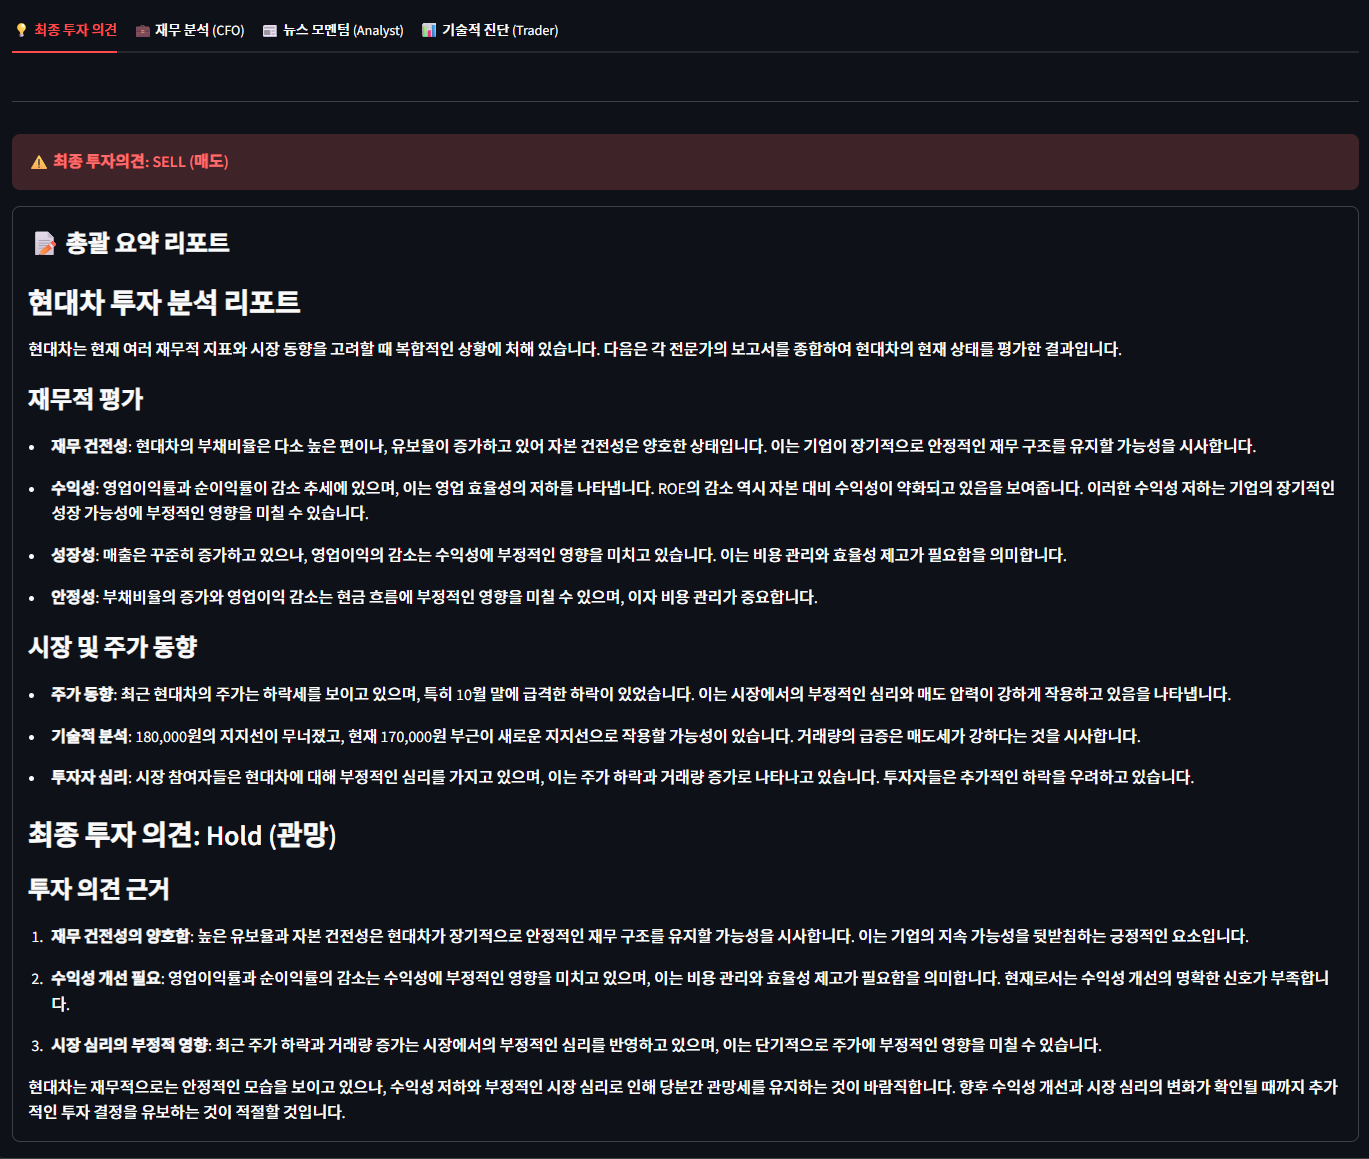
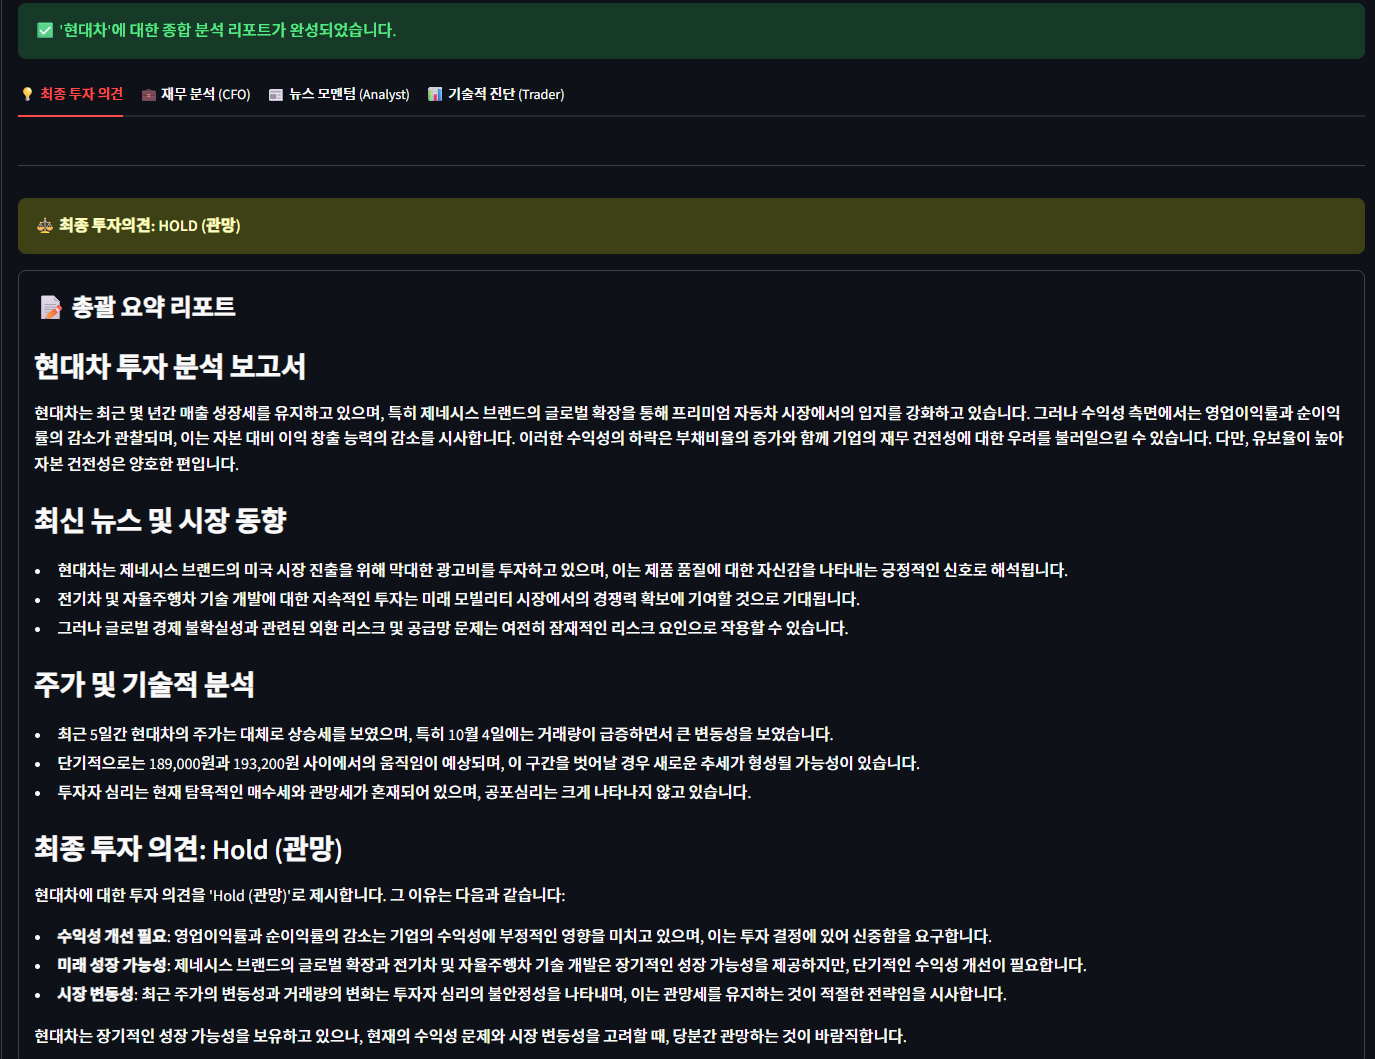
FundManager 의견출력 알고리즘 수정

diff --git a/ai_analyst_app/frontend/ui_components.py b/ai_analyst_app/frontend/ui_components.py
@@ -2,19 +2,24 @@ import streamlit as st
 import re
 
 def render_fund_manager_report(report_text: str):
-    """
-    총괄 펀드매니저의 최종 리포트를 눈에 띄게 렌더링합니다.
-    (매수/관망/매도 의견을 시각적으로 강조)
-    """
     st.markdown("---")
     
-    # 정규식을 통해 Buy / Hold / Sell 키워드가 있으면 태그 형태로 강조
-    if re.search(r'(?i)\b(buy|매수)\b', report_text):
-        st.success("🎯 **최종 투자의견: BUY (매수)**")
-    elif re.search(r'(?i)\b(sell|매도)\b', report_text):
-        st.error("⚠ **최종 투자의견: SELL (매도)**")
-    elif re.search(r'(?i)\b(hold|관망)\b', report_text):
-        st.warning("⚖ **최종 투자의견: HOLD (관망)**")
+    # '최종 투자의견:' 또는 '최종 투자 의견:' 뒤에 나오는 단어 그룹을 추출하는 정규식
+    match = re.search(r'최종\s*투자\s*의견\s*:\s*(.*)', report_text, re.IGNORECASE)
+    
+    if match:
+        verdict = match.group(1).upper()
+        if "BUY" in verdict or "매수" in verdict:
+            st.success("🎯 **최종 투자의견: BUY (매수)**")
+        elif "SELL" in verdict or "매도" in verdict:
+            st.error("⚠ **최종 투자의견: SELL (매도)**")
+        elif "HOLD" in verdict or "관망" in verdict:
+            st.warning("⚖ **최종 투자의견: HOLD (관망)**")
+        else:
+            st.info(f"💡 **최종 투자의견: {match.group(1)}**") # 예외적인 단어일 경우
+    else:
+        # 혹시라도 양식에 안 맞춰서 출력했을 경우를 대비한 기본값
+        st.info("💡 **최종 투자의견: 본문 참조**")
         
     # 본문 내용을 깔끔한 박스 안에 배치
     with st.container(border=True):
